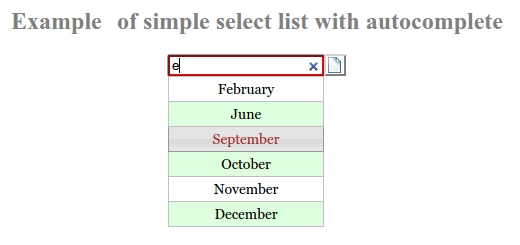
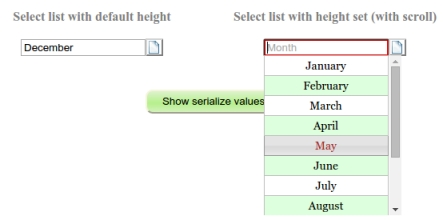
update README and example pages

diff --git a/examples/index.html b/examples/index.html
@@ -17,7 +17,7 @@
     <script type="text/javascript" charset="utf8" src="//cdn.datatables.net/1.10.3/js/jquery.dataTables.js"></script>
     <script type="text/javascript" charset="utf8" src="//cdn.datatables.net/plug-ins/380cb78f450/integration/jqueryui/dataTables.jqueryui.js"></script>
     <script type="text/javascript" charset="utf8" src="../media/javascript/jquery.menuoptions.js?v_1820"></script>
-    <script> var te = te || {}; te.root=""; </script>
+    <script> var te = te || {}; te.root=""; te.scroll=false;</script>
     <script type="text/javascript" charset="utf8" src="javascript/examples.js?v_1633"></script>
       
     <style>
@@ -62,6 +62,7 @@
         <li><p>mouseover filtering lets user reduce choices by moving their mouse over a filter element</p></li>
         <li><p>mulitcolumn display of choices, allowing more data to be presented at one time</p></li>
         <li><p>has a rocker control, convenient for binary choices (true/false, yes/no, etc)</p></li>
+        <li><p>uses scrolling to accomodate large lists</p</li>
     </ul>
      <p style="text-align:left;font-weight:bold">Other benefits:</p>
 
@@ -71,7 +72,7 @@
         (in the menu_opt_key - no need to manually update a hidden field)</p></li>
         <li><p>since the dropdowns uses similar logic to menus, it has a basic menu system thrown in.</p></li>
         <li><p>tested on Win 8.1 IE10 and Safari 5.17, on Ubuntu Chrome 41.0.2272 and Firefox 37.0 </p></li>
-        <li><p>has a suite of 14 automated tests</p</li>>
+        <li><p>has a suite of 15 automated tests</p</li>
     </ul>
 
     <h2> Notes: </h2>

diff --git a/examples/RockerControl.html b/examples/RockerControl.html
@@ -13,12 +13,10 @@ body {font-family:Arial, Helvetica, sans-serif; font-size:12px;}
 <link rel="stylesheet" href="http://ajax.googleapis.com/ajax/libs/jqueryui/1.10.1/themes/smoothness/jquery-ui.css" />
 <script src="../media/javascript/jquery.menuoptions.js?v_1820"></script> 
 <link rel="stylesheet" href="../media/style/menuoptions.css?v_1820">
-<script> var te = te || {}; te.root=""; </script>
+<script> var te = te || {}; te.root=""; te.scroll=true; </script>
 <script src="javascript/examples.js?v_1633"></script>
    <style>
         html, body {
-            height: 100%;
-            overflow: hidden;
             font: 15px/20px  Georgia, Arial, Helvetica, sans-serif; 
         }
         h1 { color: gray; font-size:26px; } 
@@ -56,7 +54,7 @@ $(document).ready(function () {
 </script>
  
 </head> 
-<body style="background:white; text-align:center;    margin: 0px auto;  padding: 0px; width: 920px;">
+<body>
     <br><h1 >Example using the rocker switch</h1>
     <form id=tst>
 	 <table border=0 style="margin: 0 auto;margin-top:50px;">

diff --git a/examples/MultiSelect.html b/examples/MultiSelect.html
@@ -9,12 +9,10 @@
    <link rel="stylesheet" href="http://ajax.googleapis.com/ajax/libs/jqueryui/1.10.1/themes/smoothness/jquery-ui.css" />
    <script src="../media/javascript/jquery.menuoptions.js?v_1820"></script> 
    <link rel="stylesheet" href="../media/style/menuoptions.css?v_1820">
-   <script> var te = te || {}; te.root=""; </script>
+   <script> var te = te || {}; te.root=""; te.scroll=true; </script>
    <script src="javascript/examples.js?v_1633"></script>
    <style>
         html, body {
-            height: 100%;
-            overflow: hidden;
             font: 15px/20px  Georgia, Arial, Helvetica, sans-serif; 
         }
         h1 { color: gray; font-size:26px; } 
@@ -147,7 +145,7 @@ init();
 });
 </script>
 </head>
-<body style="background:white; text-align:center;    margin: 0px auto;  padding: 0px; width: 920px;">
+<body>
 	<br><h1 >Example of multiple select lists with autocomplete </h1>
     <form id=tst>
 	 <table border=0 style="margin: 0 auto;margin-top:-14px;">

diff --git a/examples/SelectWithImages.html b/examples/SelectWithImages.html
@@ -7,7 +7,7 @@
   <script src="https://ajax.googleapis.com/ajax/libs/jquery/2.1.3/jquery.min.js"></script>
   <script src="https://ajax.googleapis.com/ajax/libs/jqueryui/1.11.2/jquery-ui.min.js"></script>
    <script src="../media/javascript/jquery.menuoptions.js?v_1820"></script> 
-   <script> var te = te || {}; te.root=""; </script>
+   <script> var te = te || {}; te.root=""; te.scroll=true; </script>
    <script src="javascript/examples.js?v_1633"></script>
    <link rel="stylesheet" href="http://ajax.googleapis.com/ajax/libs/jqueryui/1.10.1/themes/smoothness/jquery-ui.css" />
    <link rel="stylesheet" href="../media/style/menuoptions.css?v_1820">
@@ -61,7 +61,7 @@ $(document).ready(function() {
 });
 </script>
 </head>
-<body style="background:white; text-align:center;    margin: 0px auto;  padding: 0px; width: 920px;">
+<body>
 	<br><h1 >Example of MenuOptions select (with images)</h1>
 	<h2 >(press enter to select 1st choice in list)</h2>
 	 <table style="margin: 0 auto;">

diff --git a/examples/ReloadMenuOptions.html b/examples/ReloadMenuOptions.html
@@ -9,7 +9,7 @@
    <link rel="stylesheet" href="http://ajax.googleapis.com/ajax/libs/jqueryui/1.10.1/themes/smoothness/jquery-ui.css" />
    <script src="../media/javascript/jquery.menuoptions.js?v_1820"></script> 
    <link rel="stylesheet" href="../media/style/menuoptions.css?v_1820">
-   <script> var te = te || {}; te.root=""; </script>
+   <script> var te = te || {}; te.root=""; te.scroll=true; </script>
    <script src="javascript/examples.js?v_1633"></script>
    <style>
         html { min-height: 100%; margin-bottom: 1px; padding-top:3px; }
@@ -96,7 +96,7 @@ $(document).ready(function() {
 });
 </script>
 </head>
-<body style="background:white; text-align:center; overflow:hidden; margin: 0px auto;  padding: 0px; width: 920px;">
+<body>
 	<br><h1 >Example of dynamic reloading a MenuOptions select</h1> 
     <h2>When you change the Start time, the end time select list will modified to <br /> 
         only display the start time plus 1 hour and 30 minutes </h2><br />

diff --git a/examples/QuickStartSelect.html b/examples/QuickStartSelect.html
@@ -8,7 +8,7 @@
   <script src="https://ajax.googleapis.com/ajax/libs/jqueryui/1.11.2/jquery-ui.min.js"></script>
    <link rel="stylesheet" href="http://ajax.googleapis.com/ajax/libs/jqueryui/1.10.1/themes/smoothness/jquery-ui.css" />
    <script src="../media/javascript/jquery.menuoptions.js?v_1820"></script> 
-   <script> var te = te || {}; te.root=""; </script>
+   <script> var te = te || {}; te.root=""; te.scroll=true; </script>
    <script src="javascript/examples.js?v_1633"></script>
    <link rel="stylesheet" href="../media/style/menuoptions.css?v_1820">
    <style>
@@ -53,7 +53,7 @@ $(document).ready(function() {
 });
 </script>
 </head>
-<body style="background:white; text-align:center;    margin: 0px auto;  padding: 0px; width: 920px;">
+<body>
 	<br><h1 >Example of simple select list with autocomplete </h1>
     <h2 >(Note: the initial value was programmatically set to December)</h2>
     <form id=tst>

diff --git a/examples/Dividers.html b/examples/Dividers.html
@@ -8,7 +8,7 @@
   <script src="https://ajax.googleapis.com/ajax/libs/jqueryui/1.11.2/jquery-ui.min.js"></script>
    <link rel="stylesheet" href="http://ajax.googleapis.com/ajax/libs/jqueryui/1.10.1/themes/smoothness/jquery-ui.css" />
    <script src="../media/javascript/jquery.menuoptions.js?v_1820"></script> 
-   <script> var te = te || {}; te.root=""; </script>
+   <script> var te = te || {}; te.root=""; te.scroll=true; </script>
    <script src="javascript/examples.js?v_1633"></script>
    <link rel="stylesheet" href="../media/style/menuoptions.css?v_1820">
    <style>
@@ -68,7 +68,7 @@ $(document).ready(function() {
 });
 </script>
 </head>
-<body style="background:white; text-align:center;    margin: 0px auto;  padding: 0px; width: 920px;">
+<body>
 	<br><h1 >Example of a menu using mouseover filters and dividers </h1>
 	 <table style="margin: 0 auto;">
          <tr>

diff --git a/examples/RightMenu.html b/examples/RightMenu.html
@@ -8,7 +8,7 @@
    <script src="https://ajax.googleapis.com/ajax/libs/jqueryui/1.11.2/jquery-ui.min.js"></script>
    <link rel="stylesheet" href="http://ajax.googleapis.com/ajax/libs/jqueryui/1.10.1/themes/smoothness/jquery-ui.css" />
    <script src="../media/javascript/jquery.menuoptions.js?v_1820"></script> 
-   <script> var te = te || {}; te.root=""; </script>
+   <script> var te = te || {}; te.root=""; te.scroll=true; </script>
    <script src="javascript/examples.js?v_1633"></script>
    <link rel="stylesheet" href="../media/style/menuoptions.css?v_1820">
    <style>
@@ -88,7 +88,7 @@ $(document).ready(function() {
 });
 </script>
 </head>
-<body style="background:white; text-align:center;    margin: 0px auto;  padding: 0px; width: 920px;">
+<body>
 	<br><h1 >Examples of Menus positioned at right </h1>
 	 <table style="margin: 0 auto;">
          <tr>

diff --git a/examples/MenusBottom.html b/examples/MenusBottom.html
@@ -9,7 +9,7 @@
    <link rel="stylesheet" href="http://ajax.googleapis.com/ajax/libs/jqueryui/1.10.1/themes/smoothness/jquery-ui.css" />
    <script src="../media/javascript/jquery.menuoptions.js?v_1820"></script> 
    <link rel="stylesheet" href="../media/style/menuoptions.css?v_1820">
-   <script> var te = te || {}; te.root=""; </script>
+   <script> var te = te || {}; te.root=""; te.scroll=true; </script>
    <script src="javascript/examples.js?v_1633"></script>
    <style>
         img.cnn_img {
@@ -90,7 +90,7 @@ $(document).ready(function() {
 });
 </script>
 </head>
-<body style="background:white; text-align:center;    margin: 0px auto;  padding: 0px; width: 920px;">
+<body>
 	<br><h1 >Examples of Menus positioned at bottom </h1>
 	 <table style="margin: 0 auto;">
          <tr>

diff --git a/examples/InlinEdit.html b/examples/InlinEdit.html
@@ -19,7 +19,7 @@
     <script type="text/javascript" charset="utf8" src="javascript/data.js"></script>
     <script type="text/javascript" charset="utf8" src="javascript/Scroller.js"></script>
     <script type="text/javascript" charset="utf8" src="../media/javascript/jquery.menuoptions.js?v_1820"></script>
-   <script> var te = te || {}; te.root=""; </script>
+   <script> var te = te || {}; te.root=""; te.scroll=true; </script>
    <script src="javascript/examples.js?v_{DT}"></script>
     <style>  
         a.underl { border-bottom:1px dotted gray; text-decoration:none; color:gray;}
@@ -27,7 +27,7 @@
    </style>
 
 </head>
-<body style="background:white; margin: 0px auto;  padding: 0px; width: 920px; overflow-y:hidden;">
+<body>
     <!--  <body>  -->
 
  <div class=wrapper>

diff --git a/examples/javascript/examples.js b/examples/javascript/examples.js
@@ -3,6 +3,10 @@ var te = te || {};
 $(document).ready(function () {
 /*-----------------------------------------------------------------------*/
 te.examplelist = function ( ) {
+    if ( te.scroll == true ) {
+        $('body').css({ "background":"white", "margin": "0px auto", "height":"100%", "padding": "0px", "width": "920px", "overflow":"hidden"}); 
+        $('html').css({ "text-align":"center"}); 
+    }
     $('h1:first').after("<table style='margin-left:auto;margin-right:auto;font-size:18px;margin-top:-10px;'>"+
         "<tr>"+
            "<td><a target=_blank class='underl examplemenu' href='/index.html#menuoptions_examples'>all examples</a></td>"+

diff --git a/examples/QuickStartMenu.html b/examples/QuickStartMenu.html
@@ -7,7 +7,7 @@
   <script src="https://ajax.googleapis.com/ajax/libs/jquery/2.1.3/jquery.min.js"></script>
   <script src="https://ajax.googleapis.com/ajax/libs/jqueryui/1.11.2/jquery-ui.min.js"></script>
   <script src="../media/javascript/jquery.menuoptions.js?v_1820"></script> 
-  <script> var te = te || {}; te.root=""; </script>
+  <script> var te = te || {}; te.root=""; te.scroll=true; </script>
   <script src="javascript/examples.js?v_1633"></script>
 
   <link rel="stylesheet" href="http://ajax.googleapis.com/ajax/libs/jqueryui/1.10.1/themes/smoothness/jquery-ui.css" />
